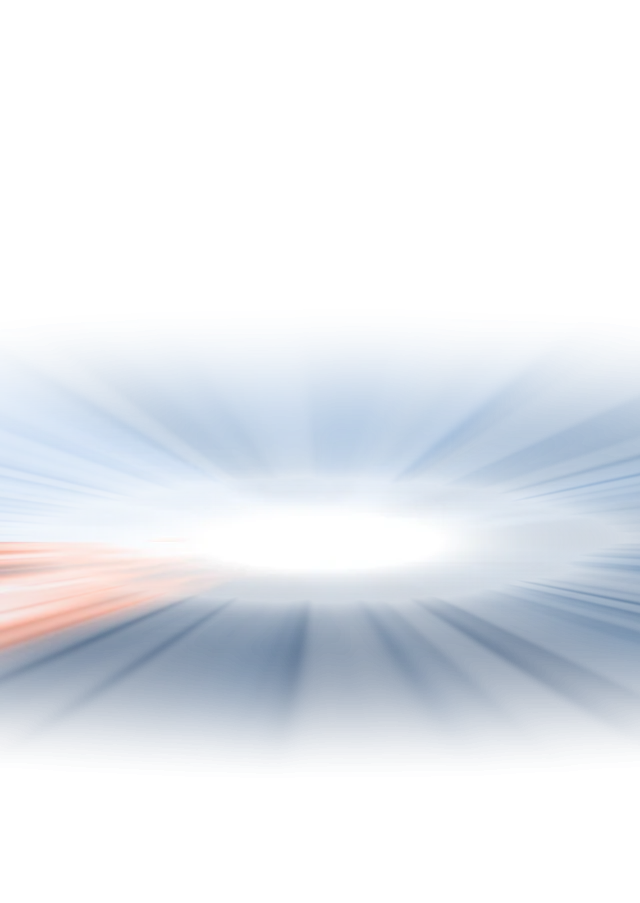
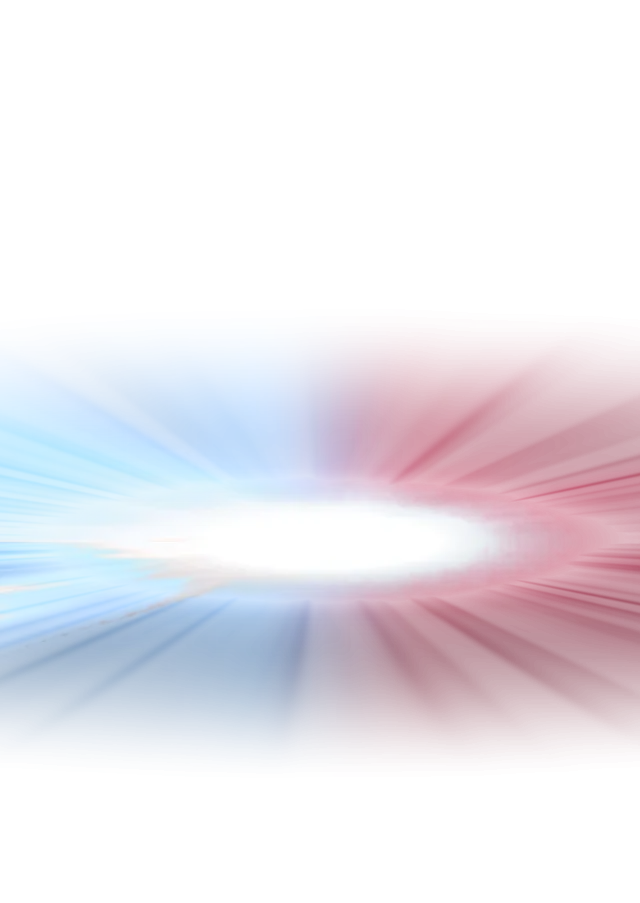
Atualiza o site para o iPhone 18 Pro Max
- Topo: iPhone 18 Pro Max azul-glacial à esquerda e bordô à direita, com a
  luz de fundo nas mesmas cores e o holofote do computador em branco
- Lacrados: iPhone 18 Pro Max bordô com as cores oficiais (bordô,
  azul-glacial, prata e preto)
- Conversa da entrega e serviço a laser com o iPhone 18 Pro Max
- Câmera dos iPhones recoloridos sem pontos nem restos de laranja

Claude-Session: https://claude.ai/code/session_01FBiHtwR7jZYrAH8dWfMk3V

Changed region(s): [[0.0, 0.4031, 1.0, 0.8062], [0.3125, 0.4651, 0.4062, 0.5271], [0.0938, 0.4961, 0.1562, 0.5271]]

diff --git a/site/src/estilos/hero.css b/site/src/estilos/hero.css
@@ -217,7 +217,7 @@ a.hero__etiqueta::after { content: ''; position: absolute; top: 0; bottom: 0; le
 /* Computador: holofote que segue o mouse por cima da luz do horizonte */
 .hero__holofote { position: absolute; inset: 0; z-index: 1; pointer-events: none; opacity: 0; transition: opacity 0.8s var(--suave); background:
   radial-gradient(260px circle at var(--mx, 50%) var(--my, 35%), rgba(255, 255, 255, 0.7), transparent 70%),
-  radial-gradient(560px circle at var(--mx, 50%) var(--my, 35%), rgba(252, 98, 54, 0.2), rgba(252, 98, 54, 0.06) 45%, transparent 70%); }
+  radial-gradient(560px circle at var(--mx, 50%) var(--my, 35%), rgba(255, 255, 255, 0.3), rgba(255, 255, 255, 0.08) 45%, transparent 70%); }
 .hero.com-mouse .hero__holofote { opacity: 1; }
 .hero.com-mouse .hero__luz { transform: translate3d(var(--px, 0), var(--py, 0), 0) scale(1.06); transition: transform 0.6s var(--suave), opacity 1.6s var(--suave) 0.3s; }
 /* some suave de baixo para cima: a luz cresce (respira, segue o mouse, abre ao rolar) e não pode bater
@@ -225,3 +225,12 @@ a.hero__etiqueta::after { content: ''; position: absolute; top: 0; bottom: 0; le
 .hero__luz { -webkit-mask-image: linear-gradient(to top, transparent 0%, rgba(0, 0, 0, 0.35) 14%, #000 34%); mask-image: linear-gradient(to top, transparent 0%, rgba(0, 0, 0, 0.35) 14%, #000 34%); }
 /* o fundo do topo (céu, luz e holofote) vai sumindo nos últimos ~180px, sem borda marcada embaixo */
 .hero__campo { -webkit-mask-image: linear-gradient(to bottom, #000 calc(100% - 180px), rgba(0, 0, 0, 0.55) calc(100% - 90px), transparent 100%); mask-image: linear-gradient(to bottom, #000 calc(100% - 180px), rgba(0, 0, 0, 0.55) calc(100% - 90px), transparent 100%); }
+
+/* iPhone 18 Pro Max bordô (lançamento): espelha o iPhone laranja do outro lado, atrás do celular de frente */
+.hero__novo { position: absolute; width: 96%; right: -58%; top: 4%; z-index: 0; transform: scaleX(-1) rotate(-6deg); filter: drop-shadow(0 26px 30px rgba(1, 26, 49, 0.3)); pointer-events: none; }
+.hero__chip--2 { top: 62%; }
+@media (max-width: 860px) {
+  .hero__novo { width: 76%; right: -40%; top: 7%; }
+}
+/* com um iPhone de cada lado, o celular de frente volta para o centro */
+.hero__palco--com-costas .hero__celular { transform: none; }

diff --git a/site/src/componentes/Aparelhos.jsx b/site/src/componentes/Aparelhos.jsx
@@ -10,6 +10,8 @@ export const FOTOS = {
   costas: 'aparelhos/iphone-costas.webp',
   relogio: 'aparelhos/apple-watch.webp',
   mesa: 'aparelhos/mesa.webp',
+  bordo: 'aparelhos/iphone-18-bordo.webp', // iPhone 18 Pro Max bordô (recolorido da foto laranja)
+  glacial: 'aparelhos/iphone-18-glacial.webp', // iPhone 18 Pro Max azul-glacial (idem)
 }
 const estados = new Map()
 function useFoto(src) {
@@ -76,8 +78,10 @@ export function Relogio({ children, className = '' }) {
 }
 
 // iPhone de costas (foto), também em miniatura nas telas e nas "fotos das cores" da conversa
+// Sempre um iPhone 18 Pro Max: bordô (padrão) e azul-glacial são fotos; prata e preto saem da bordô com filtro
 export function Costas({ className = '', tom }) {
-  return <img className={`costas ${tom ? 'costas--' + tom : ''} ${className}`} src={FOTOS.costas} alt="" aria-hidden="true" decoding="async" />
+  const src = tom === 'glacial' ? FOTOS.glacial : FOTOS.bordo
+  return <img className={`costas ${tom ? 'costas--' + tom : ''} ${className}`} src={src} alt="" aria-hidden="true" decoding="async" />
 }
 
 // Cada foto de cliente é procurada uma vez só, no carregamento, e o resultado vale para todas as

diff --git a/site/src/estilos/aparelhos.css b/site/src/estilos/aparelhos.css
@@ -98,7 +98,6 @@
 /* miniaturas do iPhone de costas: as outras cores saem do laranja com filtro */
 .costas { display: block; width: 100%; height: 100%; object-fit: contain; }
 .costas--azul { filter: hue-rotate(196deg) saturate(0.75) brightness(0.62); }
-.costas--prata { filter: grayscale(1) brightness(1.32) contrast(0.9); }
 
 /* Apple Watch em CSS */
 .relogio { --w: 120px; position: relative; width: var(--w); aspect-ratio: 0.86; container-type: inline-size; }
@@ -149,3 +148,7 @@
 .foto-cliente__escudo { position: absolute; width: 78%; top: 6%; left: 50%; transform: translateX(-50%) rotate(calc((var(--n) - 4) * 3deg)); color: rgba(255, 255, 255, 0.14); }
 .foto-cliente__vazia span { position: relative; font-size: 11px; line-height: 1.35; letter-spacing: 0.02em; color: rgba(255, 255, 255, 0.7); }
 .foto-cliente__vazia b { font-weight: 600; color: #fff; }
+/* cores do iPhone 18 Pro Max tiradas da foto bordô */
+/* prata e preto saem da foto bordô, que é escura: por isso o brilho alto no prata */
+.costas--prata { filter: grayscale(1) contrast(0.7) brightness(2.35); }
+.costas--preto { filter: grayscale(1) brightness(0.7) contrast(1.1); }

diff --git a/site/src/secoes/Vitrine.jsx b/site/src/secoes/Vitrine.jsx
@@ -7,13 +7,14 @@ import { useRevela, gsap } from '../lib/rolagem.js'
 
 /* ---------- telas dos três cartões ---------- */
 function TelaLacrado() {
-  const cores = [['#d9532a', 'Laranja'], ['#22324b', 'Azul'], ['#d8dadd', 'Prata'], ['#2a2b2e', 'Preto']]
+  // cores do iPhone 18 Pro Max: bordô (a nova), azul-glacial, prata e preto
+  const cores = [['#5c1a28', 'Bordô'], ['#b8cfe3', 'Azul-glacial'], ['#d8dadd', 'Prata'], ['#2a2b2e', 'Preto']]
   return (
     <div className="app app--loja">
       <div className="app__topo"><Icone nome="voltar" /><b>Lacrados</b><Icone nome="mais" /></div>
       <div className="loja__produto">
         <div className="loja__caixa">
-          <Costas className="loja__foto" />
+          <Costas tom="bordo" className="loja__foto" />
           <span className="loja__caixa-selo">Lacrado</span>
         </div>
         <p className="loja__nome">iPhone 18 Pro Max</p>

diff --git a/site/src/secoes/Hero.jsx b/site/src/secoes/Hero.jsx
@@ -153,7 +153,9 @@ export function Hero() {
       <div className="hero__aparelhos" aria-hidden="true">
         <div className={`hero__palco ${fotoCostas ? 'hero__palco--com-costas' : ''}`}>
           {/* iPhone de costas (foto do ChatGPT) atrás do celular de frente */}
-          <ImagemOpcional src={FOTOS.costas} className="hero__costas" onStatus={setFotoCostas} />
+          <ImagemOpcional src={FOTOS.glacial} className="hero__costas" onStatus={setFotoCostas} />
+          {/* iPhone 18 Pro Max bordô, a cor nova, do lado direito (espelhando o azul-glacial) */}
+          <img src="aparelhos/iphone-18-bordo.webp" className="hero__novo" alt="" decoding="async" />
           <Celular className="hero__celular" escuro semBarra={false}><TelaBloqueio /></Celular>
           <Relogio className="hero__relogio"><TelaRelogio /></Relogio>
           {HERO.chips.map((c, i) => (

diff --git a/site/src/secoes/Entrega.jsx b/site/src/secoes/Entrega.jsx
@@ -9,11 +9,11 @@ const MSGS = ENTREGA.mensagens
 
 /* ---------- conteúdos especiais das bolhas ---------- */
 function Fotos() {
-  // as três cores disponíveis: a foto laranja e as versões azul e prata tiradas dela
+  // as cores do iPhone 18 Pro Max: bordô e as versões azul-glacial e prata tiradas dela
   return (
     <span className="bolha__fotos">
-      {[undefined, 'azul', 'prata'].map((tom, i) => (
-        <span key={i} className={`bolha__cor bolha__cor--${tom || 'laranja'}`}><Costas tom={tom} /></span>
+      {['bordo', 'glacial', 'prata'].map((tom, i) => (
+        <span key={i} className={`bolha__cor bolha__cor--${tom}`}><Costas tom={tom} /></span>
       ))}
     </span>
   )
